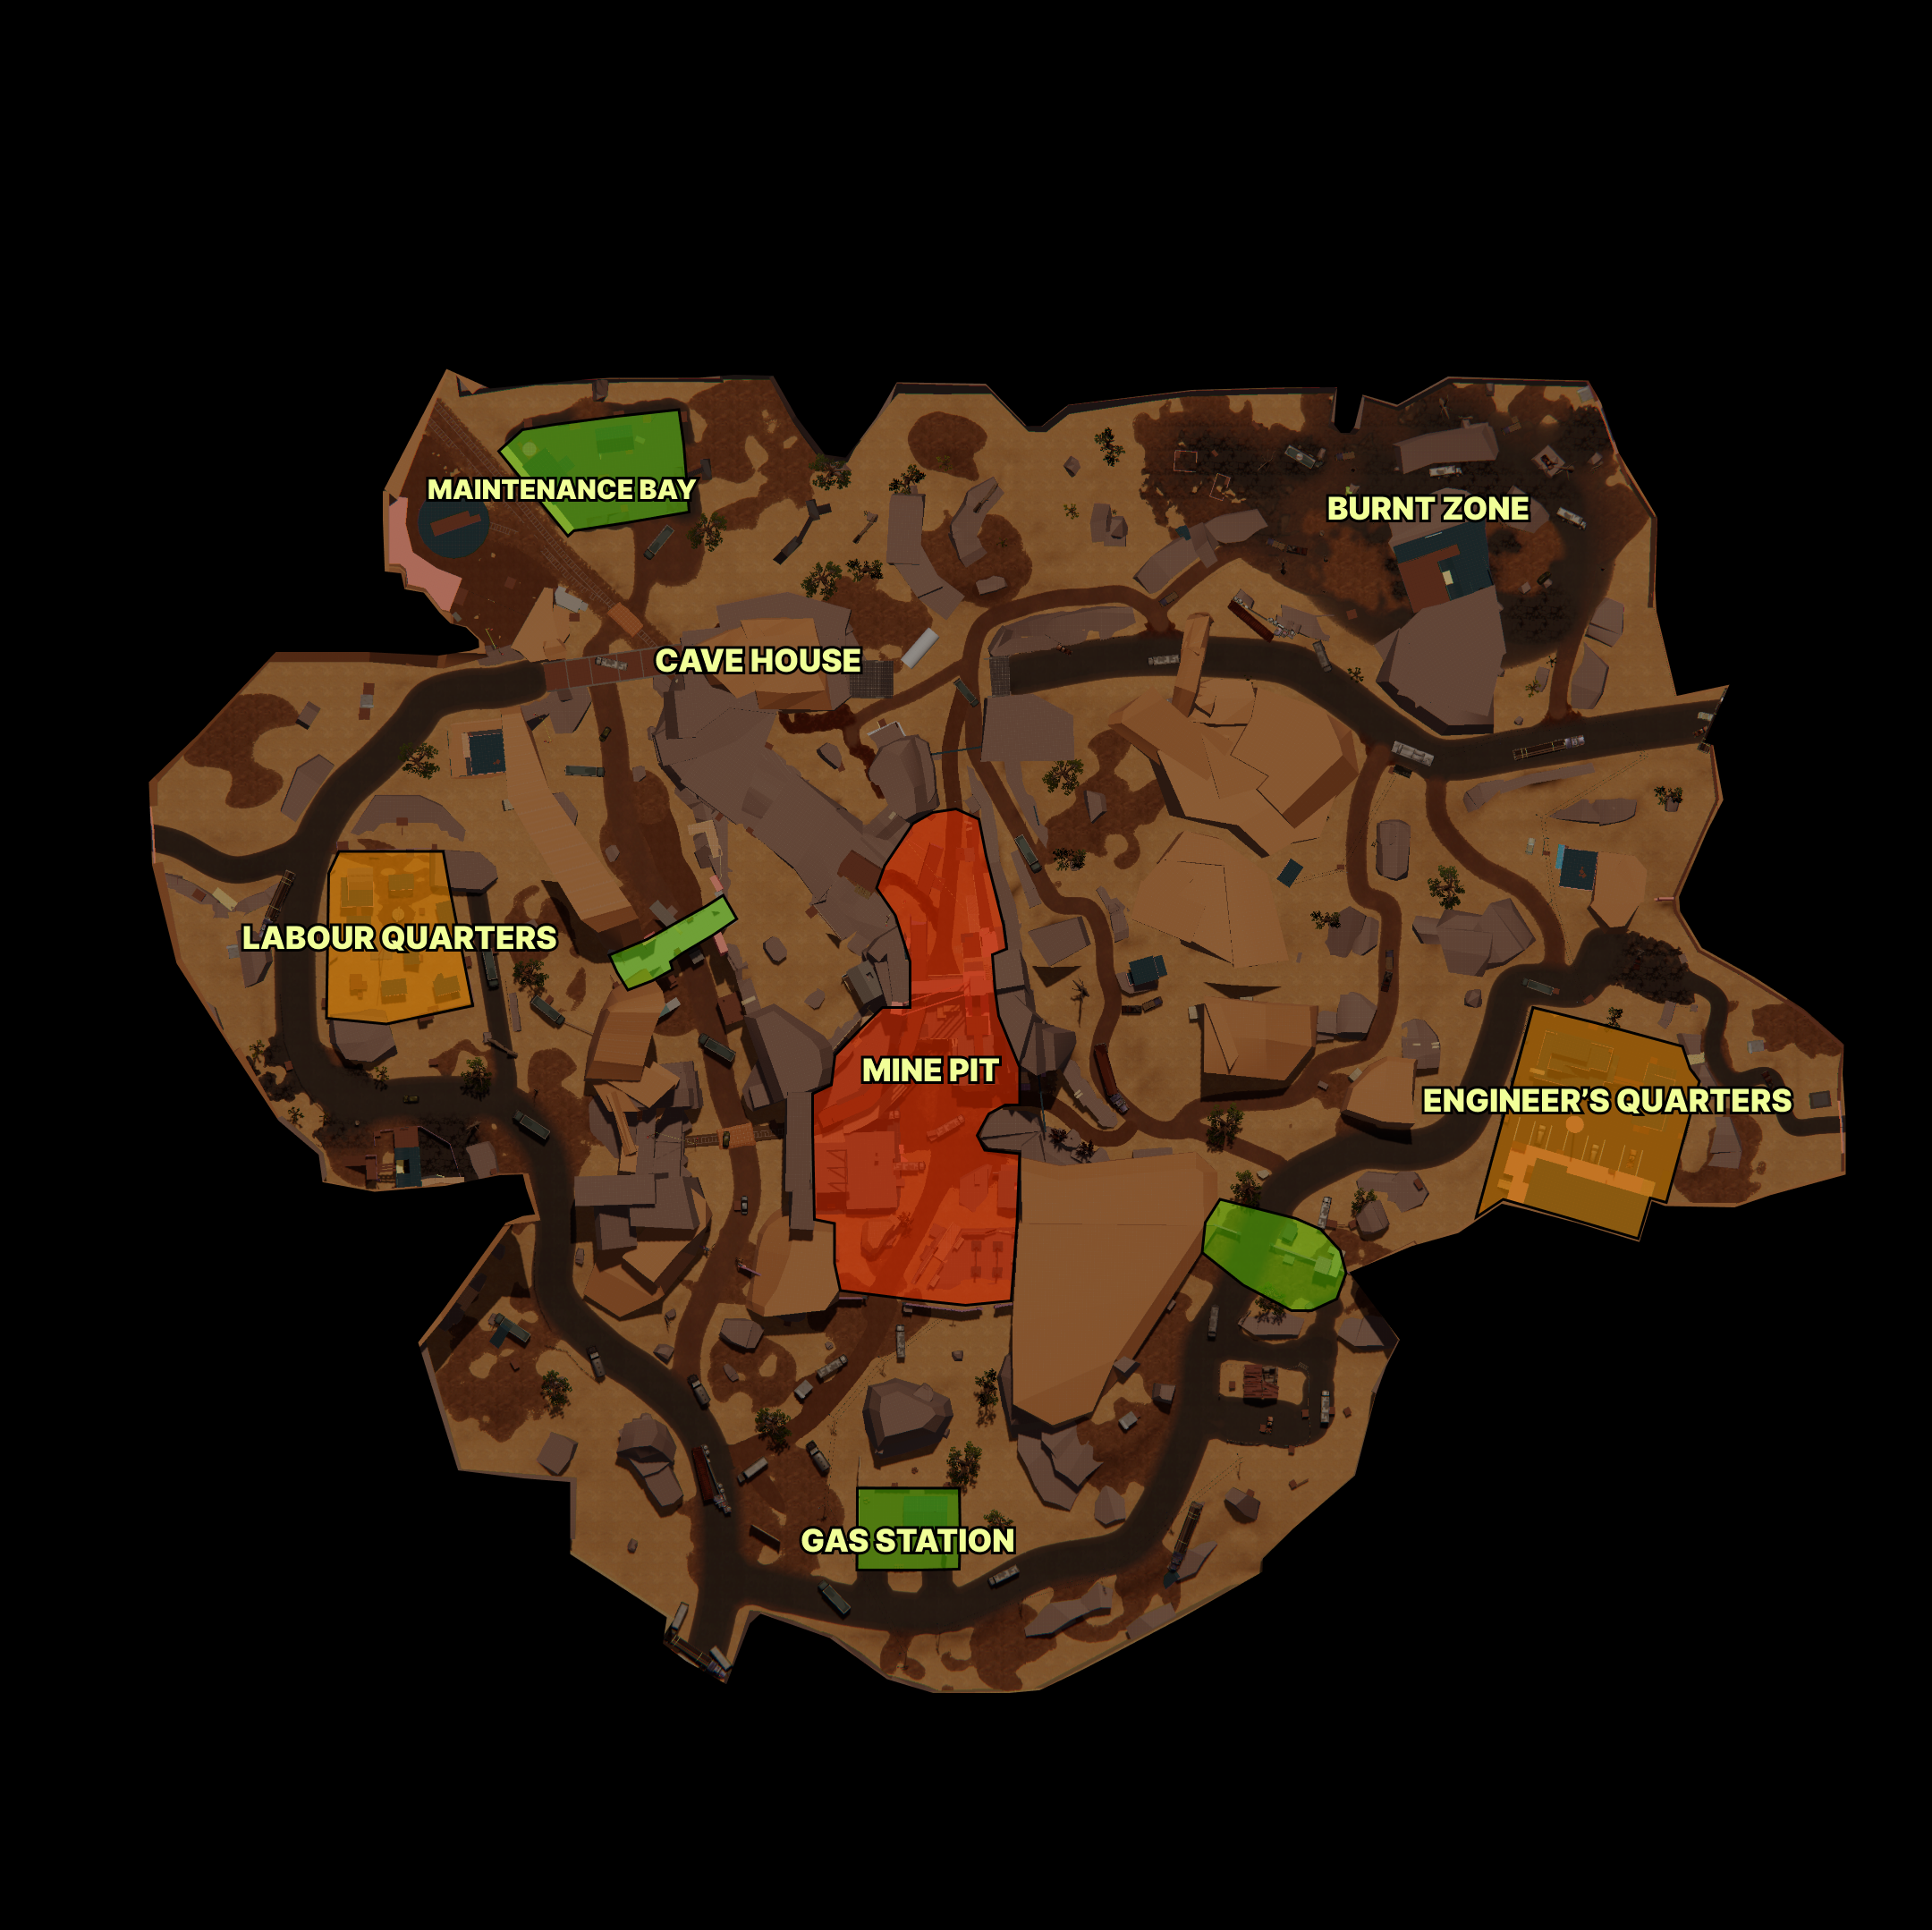
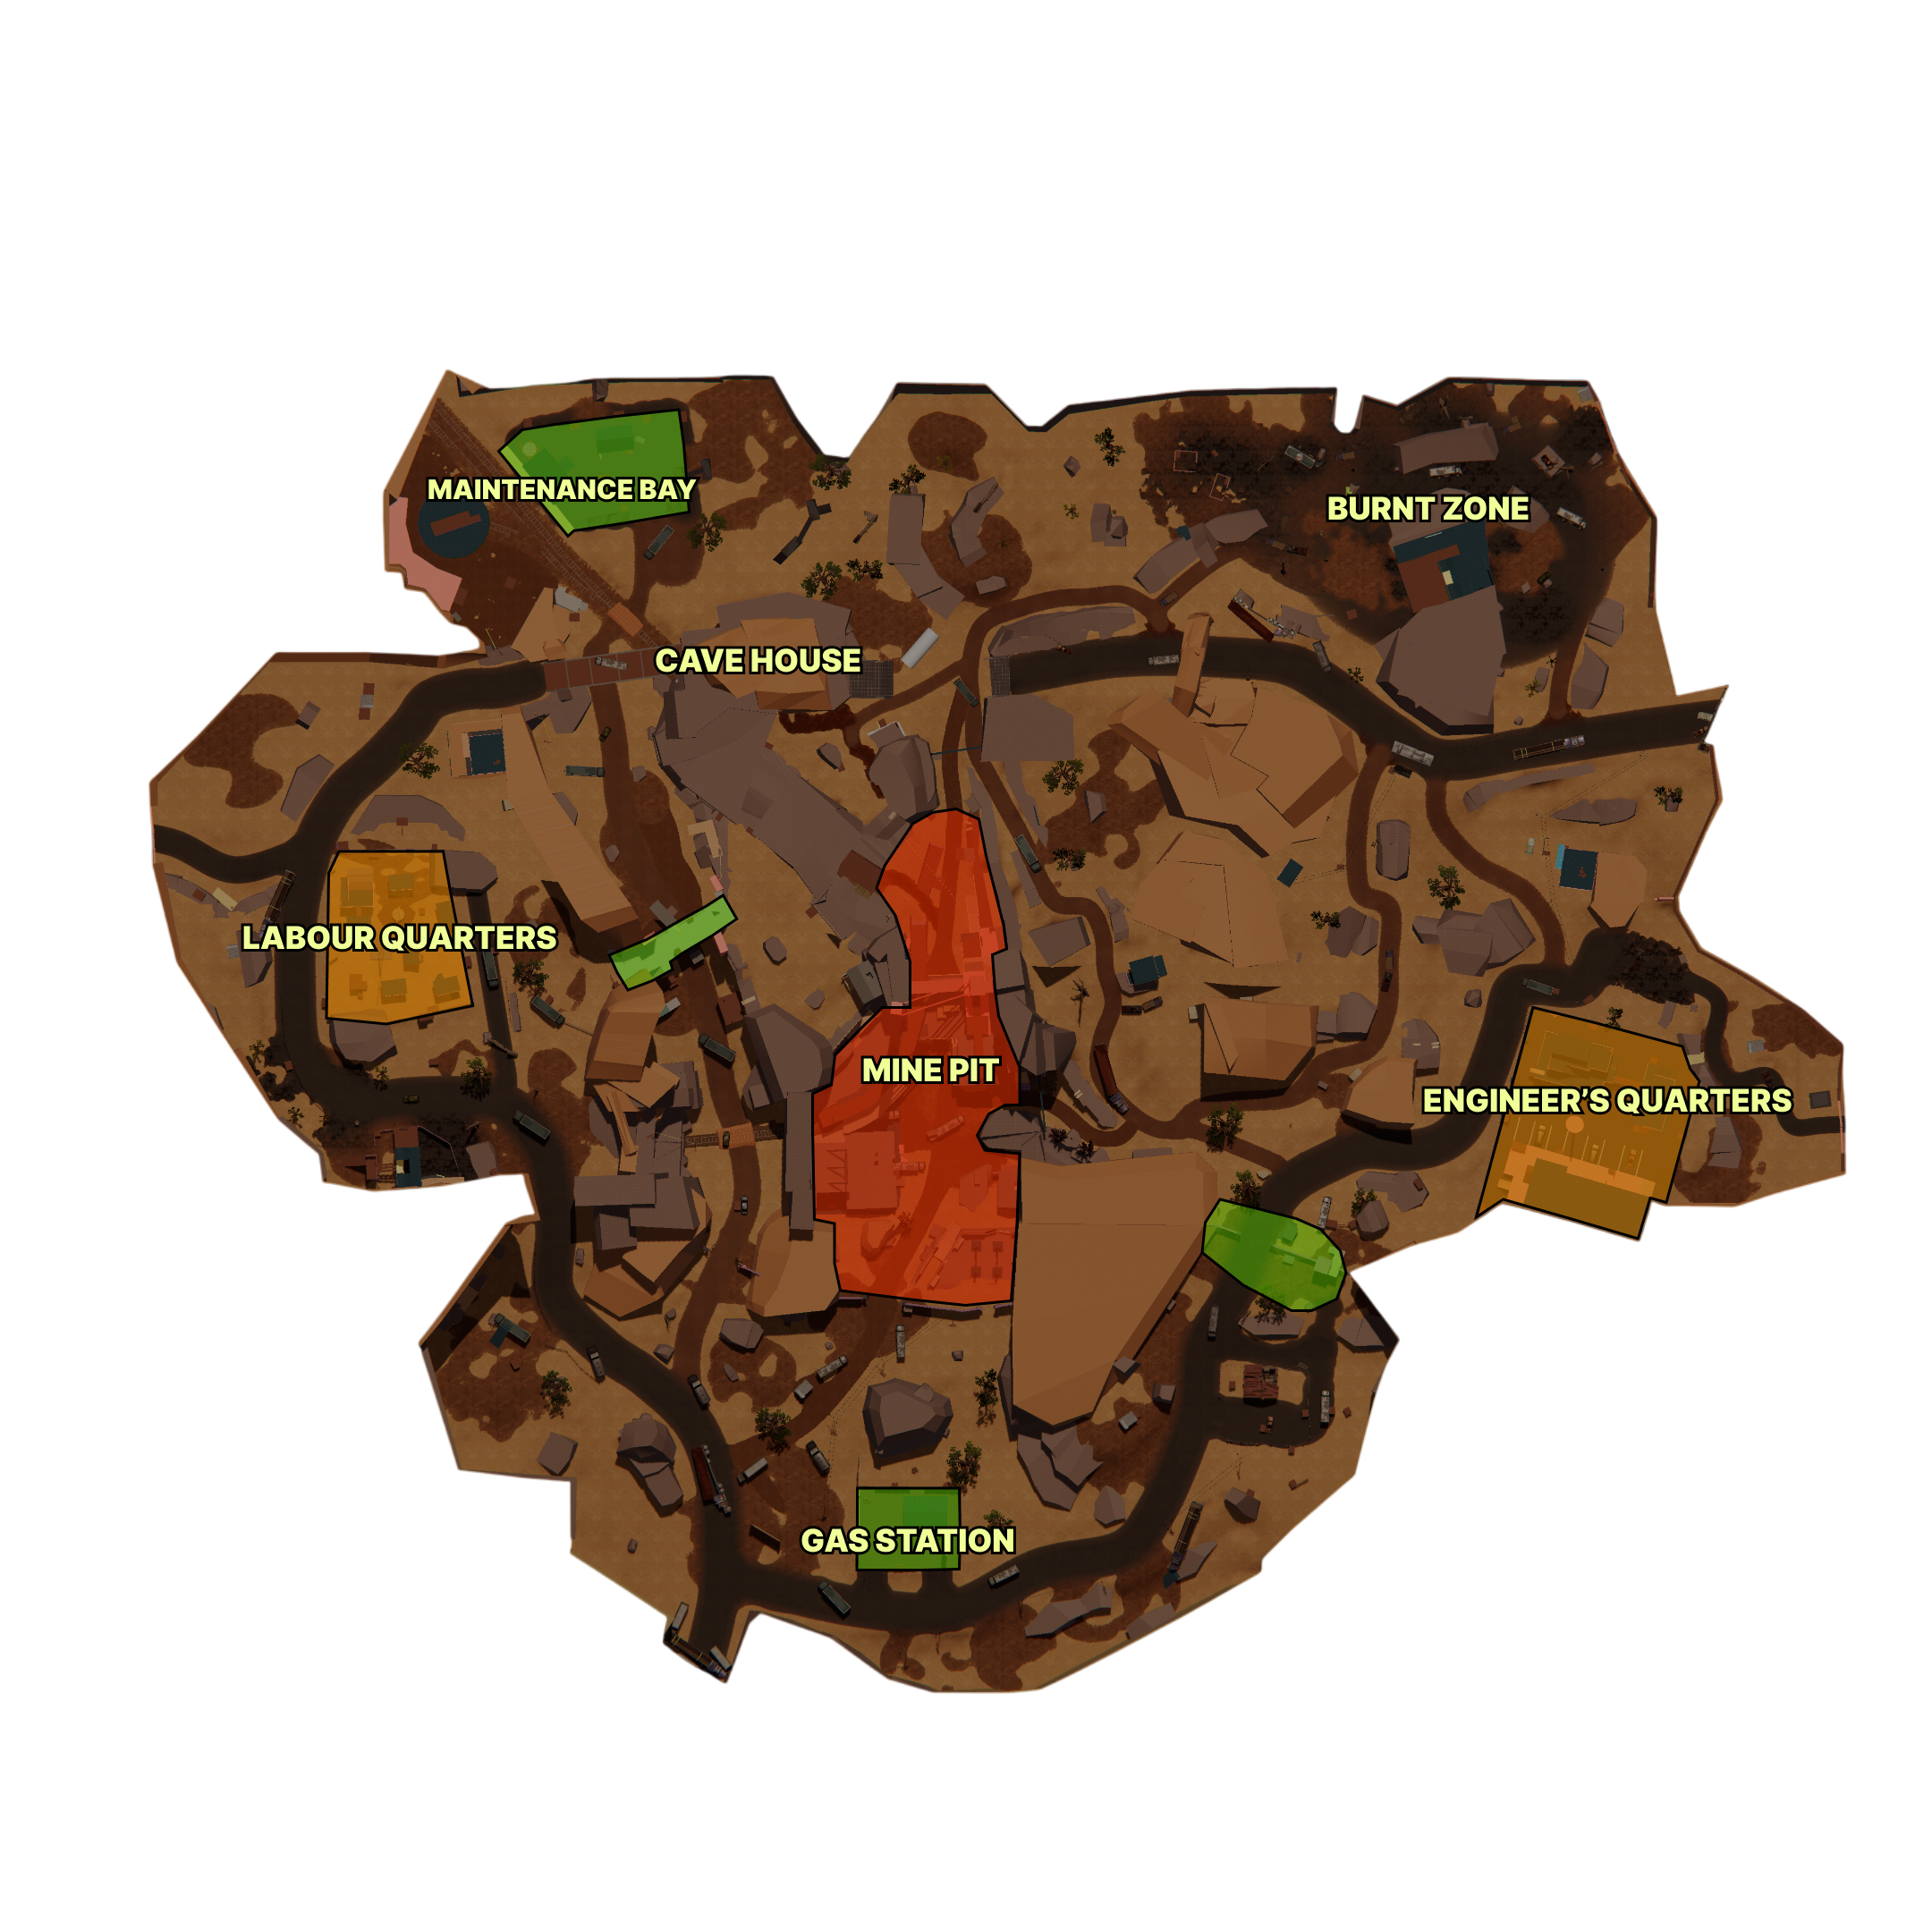
Add gameplay event markers (kills, deaths, loot, storm deaths)

diff --git a/src/components/layout/MapCanvas.tsx b/src/components/layout/MapCanvas.tsx
@@ -5,7 +5,7 @@ import type { MatchData } from '../../types/match'
 const MAP_ASSETS: Record<string, string> = {
   AmbroseValley: '/minimaps/AmbroseValley_Minimap.png',
   GrandRift:     '/minimaps/GrandRift_Minimap.png',
-  Lockdown:      '/minimaps/Lockdown_Minimap.jpg',
+  Lockdown:      '/minimaps/Lockdown_Minimap.png',
 }
 
 // ─── Map configs — exact values from README, do not modify ───────────────────
@@ -204,6 +204,113 @@ export default function MapCanvas({ selectedMap, matchData }: MapCanvasProps) {
     ctx.stroke()
     console.log('[CHECK 4] stroke() called for', movementRows.length, 'points')
   }, [matchData, mapRect])
+// ─── LAYER 2: Kill / death markers ─────────────────────────────────────────
+useEffect(() => {
+  const canvas = canvasRef.current
+  if (!canvas) return
+  const ctx = canvas.getContext('2d')
+  if (!ctx) return
+  if (!matchData || mapRect.w === 0 || mapRect.h === 0) return
+
+  const combatRows = matchData.rows.filter(r =>
+    r.event === 'Kill'      ||
+    r.event === 'BotKill'   ||
+    r.event === 'Killed'    ||
+    r.event === 'BotKilled'
+  )
+
+  // Print every unique event type in the full file + its count
+const eventCounts = matchData.rows.reduce<Record<string, number>>((acc, r) => {
+  acc[r.event] = (acc[r.event] ?? 0) + 1
+  return acc
+}, {})
+console.log('[EVENT COUNTS]', eventCounts)
+console.log('[KILLS/DEATHS] combat rows:', combatRows.length, combatRows.map(r => r.event))
+
+  combatRows.forEach(row => {
+    const [cx, cy] = worldToCanvas(row.x, row.z, matchData.mapId)
+    const isKill   = row.event === 'Kill' || row.event === 'BotKill'
+
+    ctx.beginPath()
+    ctx.arc(cx, cy, 6, 0, Math.PI * 2)
+    ctx.fillStyle   = isKill ? '#f87171' : '#c084fc'
+    ctx.globalAlpha = 0.85
+    ctx.fill()
+
+    ctx.beginPath()
+    ctx.arc(cx, cy, 6, 0, Math.PI * 2)
+    ctx.strokeStyle = 'rgba(255,255,255,0.6)'
+    ctx.lineWidth   = 1.5
+    ctx.globalAlpha = 1
+    ctx.stroke()
+  })
+
+  ctx.globalAlpha = 1
+}, [matchData, mapRect])
+
+// ─── LAYER 3: Loot markers ──────────────────────────────────────────────────
+useEffect(() => {
+  const canvas = canvasRef.current
+  if (!canvas) return
+  const ctx = canvas.getContext('2d')
+  if (!ctx) return
+  if (!matchData || mapRect.w === 0 || mapRect.h === 0) return
+
+  const lootRows = matchData.rows.filter(r => r.event === 'Loot')
+
+  console.log('[LOOT] rows found:', lootRows.length)
+
+  lootRows.forEach(row => {
+    const [cx, cy] = worldToCanvas(row.x, row.z, matchData.mapId)
+
+    ctx.beginPath()
+    ctx.arc(cx, cy, 5, 0, Math.PI * 2)
+    ctx.fillStyle   = '#facc15'
+    ctx.globalAlpha = 0.85
+    ctx.fill()
+
+    ctx.beginPath()
+    ctx.arc(cx, cy, 5, 0, Math.PI * 2)
+    ctx.strokeStyle = 'rgba(255,255,255,0.6)'
+    ctx.lineWidth   = 1.5
+    ctx.globalAlpha = 1
+    ctx.stroke()
+  })
+
+  ctx.globalAlpha = 1
+}, [matchData, mapRect])
+
+// ─── LAYER 4: Storm death markers ───────────────────────────────────────────
+useEffect(() => {
+  const canvas = canvasRef.current
+  if (!canvas) return
+  const ctx = canvas.getContext('2d')
+  if (!ctx) return
+  if (!matchData || mapRect.w === 0 || mapRect.h === 0) return
+
+  const stormRows = matchData.rows.filter(r => r.event === 'KilledByStorm')
+
+  console.log('[STORM] rows found:', stormRows.length)
+
+  stormRows.forEach(row => {
+    const [cx, cy] = worldToCanvas(row.x, row.z, matchData.mapId)
+
+    ctx.beginPath()
+    ctx.arc(cx, cy, 6, 0, Math.PI * 2)
+    ctx.fillStyle   = '#34d399'
+    ctx.globalAlpha = 0.85
+    ctx.fill()
+
+    ctx.beginPath()
+    ctx.arc(cx, cy, 6, 0, Math.PI * 2)
+    ctx.strokeStyle = 'rgba(255,255,255,0.6)'
+    ctx.lineWidth   = 1.5
+    ctx.globalAlpha = 1
+    ctx.stroke()
+  })
+
+  ctx.globalAlpha = 1
+}, [matchData, mapRect])
 
   return (
     <div